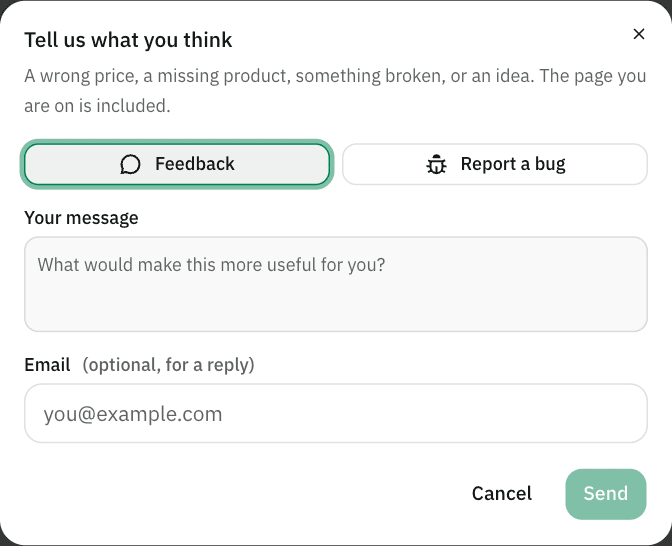
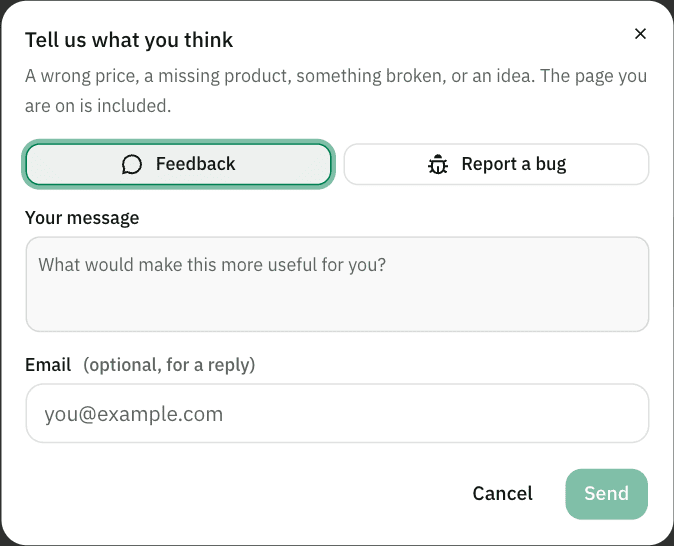
docs(web): guide screenshots show the social recipe cards

diff --git a/web/src/content/guide.ts b/web/src/content/guide.ts
@@ -47,7 +47,7 @@ export const guideSections: GuideSection[] = [
       "Use the arrow keys and Enter, or tap a result, to open the product.",
     ],
     figures: [
-      { file: "search", alt: "The search box open with “b onion” typed and Big Onion suggested with its price range", caption: "Search understands rough spelling and store wording: “b onion” finds Big Onion.", width: 1920, height: 281 },
+      { file: "search", alt: "The search box open with “b onion” typed and Big Onion suggested with its price range", caption: "Search understands rough spelling and store wording: “b onion” finds Big Onion.", width: 1898, height: 281 },
     ],
   },
   {
@@ -61,7 +61,7 @@ export const guideSections: GuideSection[] = [
     ],
     figures: [
       { file: "product", alt: "The Big Onion page: photo, varieties, the quantity control, and summary cards for open markets, supermarkets, and wholesale", caption: "A product: sellers by group with the cheapest marked, and the supermarket average against wholesale.", width: 1920, height: 1200 },
-      { file: "outdated", alt: "An open-markets table where one seller's price is struck through and marked outdated, seen three months ago", caption: "A price older than its source allows is struck through and marked outdated.", width: 1680, height: 452 },
+      { file: "outdated", alt: "An open-markets table where one seller's price is struck through and marked outdated, seen three months ago", caption: "A price older than its source allows is struck through and marked outdated.", width: 1682, height: 452 },
     ],
     tips: [
       "Open-market prices come from surveys of selected markets and may differ at another stall on the same day.",
@@ -79,7 +79,7 @@ export const guideSections: GuideSection[] = [
       "The range and the groups are kept in the page address, so copying the link, or using “Share”, shows someone exactly the view you have.",
     ],
     figures: [
-      { file: "history", alt: "The price history chart over 90 days with open markets and supermarkets on, a day hovered, and a tooltip listing each seller's price", caption: "The history: pick a range, switch groups, hover or tap a day for every seller's price.", width: 1680, height: 1049 },
+      { file: "history", alt: "The price history chart over 90 days with open markets and supermarkets on, a day hovered, and a tooltip listing each seller's price", caption: "The history: pick a range, switch groups, hover or tap a day for every seller's price.", width: 1682, height: 1049 },
     ],
   },
   {
@@ -94,7 +94,7 @@ export const guideSections: GuideSection[] = [
     ],
     figures: [
       { file: "quantity", alt: "The quantity control on the Big Onion page opened to presets from 100 g to 5 kg and a field for an exact amount", caption: "Tap the amount for presets or an exact figure in grams or kilos.", width: 1920, height: 735 },
-      { file: "quick-basket", alt: "The basket dropdown in the header listing seven items with − and + controls and a button to compare stores", caption: "The basket from any page: adjust, remove, clear, or compare stores.", width: 1920, height: 732 },
+      { file: "quick-basket", alt: "The basket dropdown in the header listing seven items with − and + controls and a button to compare stores", caption: "The basket from any page: adjust, remove, clear, or compare stores.", width: 1898, height: 732 },
     ],
   },
   {
@@ -120,7 +120,7 @@ export const guideSections: GuideSection[] = [
       "“Recipes” in the header browses the whole catalogue by name in any language or by ingredient.",
     ],
     figures: [
-      { file: "cook", alt: "Dish cards under the basket, each with its category, time, difficulty, and what it still needs", caption: "Dishes that fit what you have, best fit first, each saying what is still to buy.", width: 1680, height: 1061 },
+      { file: "cook", alt: "Dish cards under the basket, each with its category, time, difficulty, and what it still needs", caption: "Dishes that fit what you have, best fit first, each saying what is still to buy.", width: 1682, height: 1061 },
       { file: "recipe", alt: "A dish page with ingredients still to buy at today's cheapest price and the ingredients already in the basket", caption: "A dish: every ingredient at today's cheapest price, the ones already in your basket marked, and the cost for the table.", width: 1920, height: 1200 },
       { file: "recipes", alt: "The recipe catalogue filtered by “curry”, one card per dish", caption: "The whole catalogue, searchable by name in any language or by ingredient.", width: 1920, height: 1200 },
     ],
@@ -203,7 +203,7 @@ export const guideSections: GuideSection[] = [
       "The Discord button in the bottom corner joins the Prabhava Labs community, where PriceLens updates land first; the same link sits in the ⋯ menu and the footer.",
     ],
     figures: [
-      { file: "feedback", alt: "The feedback dialog with a choice between feedback and a bug report, a message field, and an optional email", caption: "Feedback or a bug report, with the page you were on attached automatically.", width: 672, height: 546, half: true },
+      { file: "feedback", alt: "The feedback dialog with a choice between feedback and a bug report, a message field, and an optional email", caption: "Feedback or a bug report, with the page you were on attached automatically.", width: 674, height: 546, half: true },
     ],
   },
 ];
